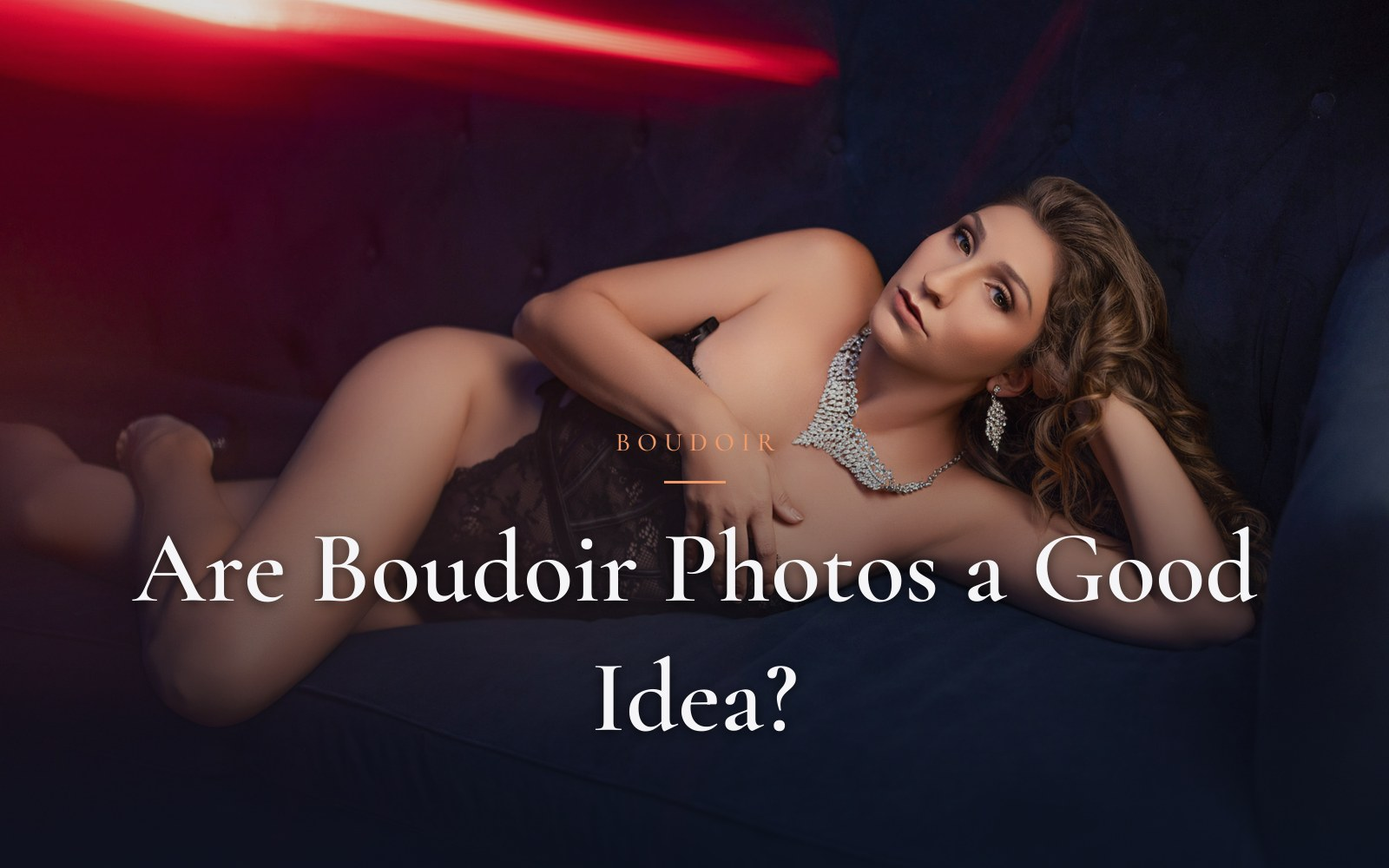
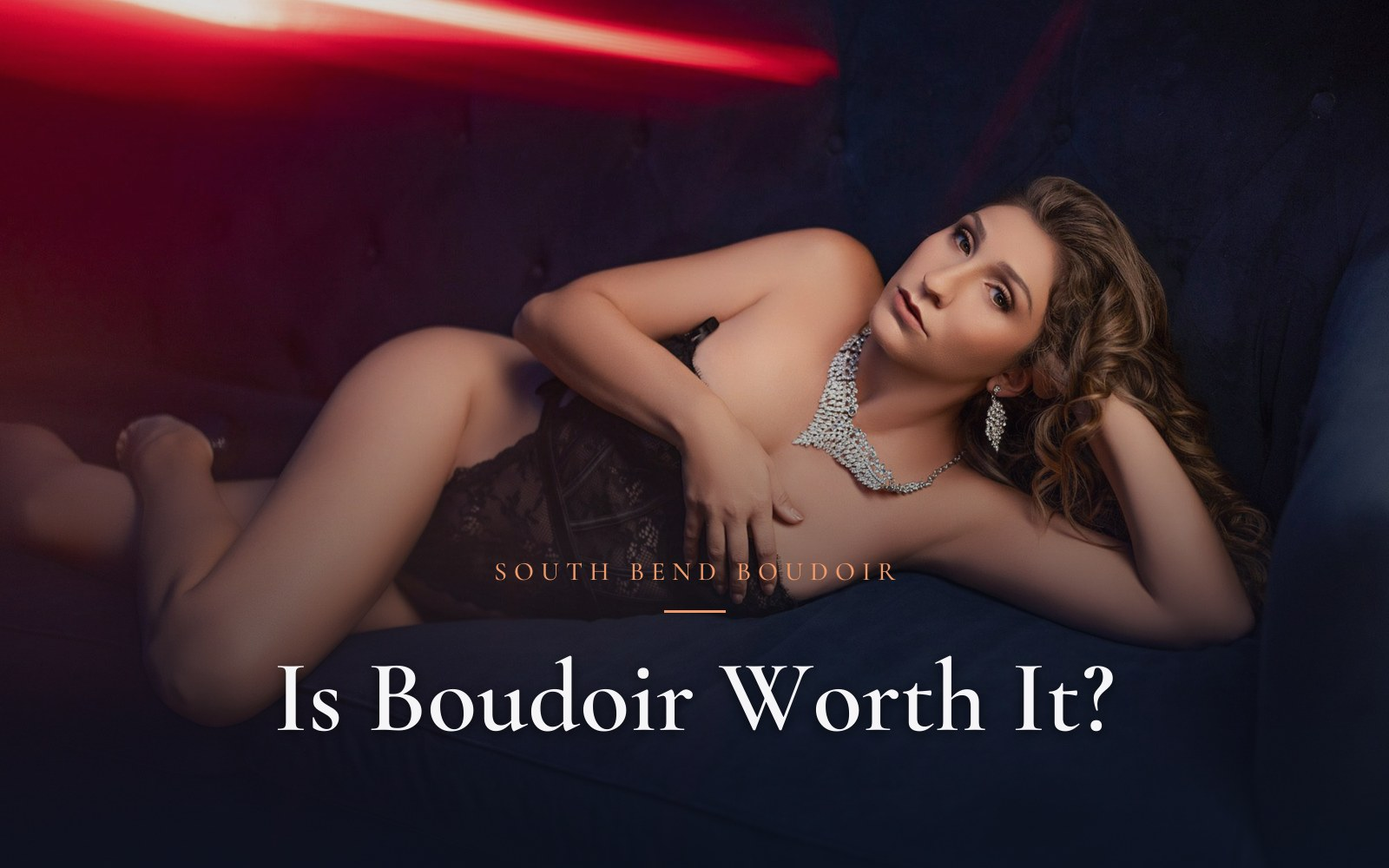
Update South Bend boudoir value guide

Changed region(s): [[0.0938, 0.589, 0.9062, 0.713], [0.1875, 0.744, 0.8125, 0.868], [0.4375, 0.496, 0.5625, 0.527]]

diff --git a/posts/are-boudoir-photos-a-good-idea/index.html b/posts/are-boudoir-photos-a-good-idea/index.html
@@ -3,15 +3,15 @@
 <head>
   <meta charset="UTF-8" />
   <meta name="viewport" content="width=device-width, initial-scale=1.0" />
-  <title>Are Boudoir Photos a Good Idea? An Honest Answer for Anyone on the Fence — Mark Andrew</title>
-  <meta name="description" content="Wondering if boudoir photos are a good idea? An honest answer from a South Bend boudoir photographer — who it&#x27;s really for, whether it&#x27;s worth it, and what to expect." />
+  <title>Is a Boudoir Session Worth It in South Bend, Indiana? — Mark Andrew</title>
+  <meta name="description" content="Is a boudoir session worth it in South Bend, Indiana? Mark Andrew explains the investment, experience, artwork, and when waiting may be wiser." />
   <link rel="canonical" href="https://blog.markandrewboudoir.com/posts/are-boudoir-photos-a-good-idea/" />
 
   <!-- Open Graph / Facebook / LinkedIn -->
   <meta property="og:type" content="article" />
   <meta property="og:url" content="https://blog.markandrewboudoir.com/posts/are-boudoir-photos-a-good-idea/" />
-  <meta property="og:title" content="Are Boudoir Photos a Good Idea? An Honest Answer for Anyone on the Fence — Mark Andrew" />
-  <meta property="og:description" content="Wondering if boudoir photos are a good idea? An honest answer from a South Bend boudoir photographer — who it&#x27;s really for, whether it&#x27;s worth it, and what to expect." />
+  <meta property="og:title" content="Is a Boudoir Session Worth It in South Bend, Indiana? — Mark Andrew" />
+  <meta property="og:description" content="Is a boudoir session worth it in South Bend, Indiana? Mark Andrew explains the investment, experience, artwork, and when waiting may be wiser." />
   <meta property="og:image" content="https://blog.markandrewboudoir.com/uploads/Use%20These%20Images/velvet-curtain-dramatic-lighting-standing-pose-boudoir-session-elkhart-in.jpg" />
   <meta property="og:image:width" content="1200" />
   <meta property="og:image:height" content="800" />
@@ -20,8 +20,8 @@
   <!-- Twitter Card -->
   <meta name="twitter:card" content="summary_large_image" />
   <meta name="twitter:url" content="https://blog.markandrewboudoir.com/posts/are-boudoir-photos-a-good-idea/" />
-  <meta name="twitter:title" content="Are Boudoir Photos a Good Idea? An Honest Answer for Anyone on the Fence — Mark Andrew" />
-  <meta name="twitter:description" content="Wondering if boudoir photos are a good idea? An honest answer from a South Bend boudoir photographer — who it&#x27;s really for, whether it&#x27;s worth it, and what to expect." />
+  <meta name="twitter:title" content="Is a Boudoir Session Worth It in South Bend, Indiana? — Mark Andrew" />
+  <meta name="twitter:description" content="Is a boudoir session worth it in South Bend, Indiana? Mark Andrew explains the investment, experience, artwork, and when waiting may be wiser." />
   <meta name="twitter:image" content="https://blog.markandrewboudoir.com/uploads/Use%20These%20Images/velvet-curtain-dramatic-lighting-standing-pose-boudoir-session-elkhart-in.jpg" />
 
   <link rel="preconnect" href="https://fonts.googleapis.com" />
@@ -50,8 +50,8 @@
 {
   "@context": "https://schema.org",
   "@type": "Article",
-  "headline": "Are Boudoir Photos a Good Idea? An Honest Answer for Anyone on the Fence",
-  "description": "Wondering if boudoir photos are a good idea? An honest answer from a South Bend boudoir photographer \u2014 who it's really for, whether it's worth it, and what to expect.",
+  "headline": "Is a Boudoir Session Worth It in South Bend, Indiana?",
+  "description": "Is a boudoir session worth it in South Bend, Indiana? Mark Andrew explains the investment, experience, artwork, and when waiting may be wiser.",
   "author": {
     "@type": "Person",
     "name": "Mark Andrew"
@@ -71,42 +71,42 @@
   "mainEntity": [
     {
       "@type": "Question",
-      "name": "Are boudoir photos worth it?",
+      "name": "Is a boudoir session worth it in South Bend, Indiana?",
       "acceptedAnswer": {
         "@type": "Answer",
-        "text": "If your goal is confidence and feeling good in your own skin, yes. A good session is built to do more than make pretty pictures \u2014 it's designed to change how you see yourself. Most women's only regret is not booking sooner."
+        "text": "It can be worth it when you value a personalized, guided experience and photographs or artwork made for you. It should also fit your budget, timing, boundaries, and reasons for booking. A consultation is the right place to evaluate all four."
       }
     },
     {
       "@type": "Question",
-      "name": "Who should not book a boudoir session?",
+      "name": "What should I compare when choosing a South Bend boudoir photographer?",
       "acceptedAnswer": {
         "@type": "Answer",
-        "text": "Anyone who isn't ready to see herself differently. The experience will change how you view yourself, so you have to be willing to let go of the old, unworthy version of you and step into a more confident one. If you're not ready for that yet, wait."
+        "text": "Compare consistent real-client work, trust, privacy, posing guidance, who is present, the schedule, what the initial payment covers, when images are selected, and the cost and quality of finished products or digital photographs."
       }
     },
     {
       "@type": "Question",
-      "name": "Are boudoir photos for me or for my partner?",
+      "name": "Do I have to know how to pose for a boudoir session?",
       "acceptedAnswer": {
         "@type": "Answer",
-        "text": "For you. Many women book thinking of it as a gift for a spouse, but the entire experience is designed around the client \u2014 your confidence and your transformation. A partner may enjoy the result, but it was never the point."
+        "text": "No. A specialist should direct your posture, hands, expression, angles, and movement throughout the session. Most clients are not models, so clear coaching is a core part of the service."
       }
     },
     {
       "@type": "Question",
-      "name": "Is boudoir photography worth the money?",
+      "name": "What happens after a boudoir session?",
       "acceptedAnswer": {
         "@type": "Answer",
-        "text": "It's a real investment, not a cheap one \u2014 but it's one of the few things a woman spends on purely for herself. Flexible payment plans, including Affirm, are available on anything you take home, so cost doesn't have to be the reason you keep waiting."
+        "text": "At Mark Andrew Boudoir, clients see their photographs at a same-day reveal and choose the images and products they want. Options may include digitals, albums, wall art, metal prints, and folio boxes."
       }
     },
     {
       "@type": "Question",
-      "name": "I'm nervous and on the fence \u2014 is that normal?",
+      "name": "When should I wait to book boudoir photography?",
       "acceptedAnswer": {
         "@type": "Answer",
-        "text": "Completely. Almost every client feels it. Being nervous doesn't mean it's the wrong choice \u2014 it usually means it matters. The fear fades fast once the session starts, and most women leave wishing they'd done it years ago."
+        "text": "Wait if the purchase would strain essential finances, someone else is pressuring you, life is unusually unstable, or you do not feel safe and comfortable with the photographer. Ordinary nerves are common, but serious pressure deserves attention."
       }
     }
   ]
@@ -115,7 +115,7 @@
 
   <style>
     *, *::before, *::after { box-sizing: border-box; margin: 0; padding: 0; }
-    html { scroll-behavior: smooth; }
+    html { scroll-behavior: smooth; overflow-x: hidden; }
     body {
       background: #0c1322;
       color: #eef0f5;
@@ -446,7 +446,7 @@
       .nav { padding: 14px 20px; }
       .nav-links { display: none; }
       .hero { padding: 120px 24px 40px; }
-      .hero h1 { font-size: 32px; }
+      .hero h1 { max-width: 100%; font-size: 30px; overflow-wrap: anywhere; text-wrap: balance; }
       .hero .eyebrow { font-size: 26px; }
       .direct-answer { margin: 0 24px 36px; padding: 22px 24px; }
       .content { padding: 0 24px 60px; }
@@ -482,115 +482,114 @@
       <span style="opacity:0.4;">·</span>
       <span>Boudoir</span>
     </nav>
-    <div class="eyebrow">an honest answer</div>
-    <h1>Are Boudoir Photos a Good Idea? <em>An Honest Answer.</em></h1>
-    <p class="subtitle">If you've talked yourself out of a boudoir session more than once, this is the honest conversation I'd have with you — who it's right for, who it isn't, whether it's worth it, and what happens when a woman who was sure it was a mistake finally sees herself.</p>
+    <div class="eyebrow">an honest South Bend answer</div>
+    <h1>Is a Boudoir Session Worth It <em>in South Bend, Indiana?</em></h1>
+    <p class="subtitle">An honest look at the investment, the experience, and the questions I want every Michiana client to ask before she books.</p>
   </header>
 
   <section class="direct-answer">
-    <p>Yes — if you want to feel more confident and finally celebrate your body, boudoir photos are one of the best ways to do it. A good session isn't really about the pictures; it's about <strong>falling back in love with yourself</strong>. The only women it's a bad idea for are the ones who aren't ready to see themselves differently — because they will.</p>
+    <p>For many South Bend and Michiana clients, a boudoir session is worth it when they want a carefully planned experience and photographs that feel personal—not simply time in front of a camera. It is a meaningful investment, and it should fit your budget, timing, boundaries, and reasons for booking. If those pieces do not line up, waiting is completely reasonable.</p>
   </section>
 
   <figure class="hero-image">
     <div class="frame">
-      <img src="/uploads/Use%20These%20Images/velvet-curtain-dramatic-lighting-standing-pose-boudoir-session-elkhart-in.jpg" alt="Woman standing in dramatic light against a velvet curtain during a boudoir session in Elkhart, IN" loading="lazy" />
+      <img src="/uploads/Use%20These%20Images/velvet-curtain-dramatic-lighting-standing-pose-boudoir-session-elkhart-in.jpg" alt="Woman posed in dramatic light against a velvet curtain during a Michiana boudoir session" loading="lazy" />
     </div>
-    <figcaption>The honest version of a conversation I have almost every week</figcaption>
+    <figcaption>Worth is personal, so the consultation should be honest before anything is booked</figcaption>
   </figure>
 
 
   <main class="content">
 
-    <h2>Are Boudoir Photos Actually a Good Idea?</h2>
+    <h2>Is a boudoir session worth it in South Bend, Indiana?</h2>
     <div class="section-answer">
-      <p>If you want more confidence and you want to celebrate your body and your sexuality, then yes — it's one of the best ways to do it. You're working with someone trained to find your best angles, light you, pose you, and read your expressions, and who's experienced at giving your self-esteem a real boost. The point was never the photos. It's <strong>falling in love with yourself</strong>.</p>
+      <p>A boudoir session can be worth it when the experience, the photographs, and the finished artwork matter to you personally. In my South Bend studio, I plan the session around your style and guide you through unfamiliar parts of the process. I will never tell someone to ignore serious budget, timing, or comfort concerns just to book.</p>
     </div>
-      <p>When a woman tells me she's on the fence about whether this is even a good idea, the first thing I say is: I get it. For most women this sits completely outside the comfort zone — it's not an everyday thing, and a lot of women have been shamed their whole lives for their body, their sexuality, their confidence. Booking something that celebrates all of those things at once can feel like going against the grain. So the question — <em>is this even a good idea?</em> — is valid, and it makes total sense.</p>
-      <p>But here's my honest opinion. If you want more confidence, and you want to celebrate your figure instead of hiding it, this is the best way I know to do it. When you work with a photographer who does this every single day, you're not just getting someone who knows the angles, the lighting, and the posing — you're getting someone who's experienced at giving your self-esteem a real boost. Yes, the pictures come out beautiful. But the actual purpose is for you to fall in love with yourself and embrace the things you've spent a lifetime being told to hide.</p>
-      
+      <p>I have photographed women for nearly ten years, and people come in for very different reasons. Some are celebrating a birthday, a career milestone, a divorce, a change in their body, or simply the decision to do something for themselves. The common thread is not one promised transformation. It is the desire to document this point in life with intention.</p>
+      <p>That is why I think “worth it” has to be personal. A beautiful session can be exciting, meaningful, and a genuine confidence boost, but it is still a real purchase. The right answer depends on why you want it, whether you trust the photographer, and whether the investment makes sense in your life right now.</p>
+
 
     <figure class="framed-image">
       <div class="frame">
-        <img src="/uploads/fur-coat-city-skyline-turning-pose-boudoir-session-mishawaka-in.jpg" alt="Confident woman in a fur coat turning toward a city skyline during a boudoir session in Mishawaka, IN" loading="lazy" />
+        <img src="/uploads/fur-coat-city-skyline-turning-pose-boudoir-session-mishawaka-in.jpg" alt="Woman in a fur coat turning toward a city skyline during a Michiana boudoir session" loading="lazy" />
       </div>
-      <figcaption>This was never about the photos — it&#x27;s about who you become</figcaption>
+      <figcaption>The right experience begins with your reason for booking</figcaption>
     </figure>
 
-    <h2>Who Is Boudoir Photography NOT a Good Idea For?</h2>
+    <h2>What am I paying for beyond time in front of the camera?</h2>
     <div class="section-answer">
-      <p>Boudoir is a bad idea for exactly one kind of person: someone who isn't ready to see herself differently — because she will. You have to be willing to let go of the old you, the version who doesn't feel worthy, beautiful, or like the main character of her own story. If you're not ready to let her go yet, don't book yet. This experience is built to change that, and it works.</p>
+      <p>You are paying for planning, specialized posing and lighting, wardrobe and set guidance, privacy, and a photographer who knows how to make many different people look natural on camera. My process begins with a video consultation, continues through a session designed around you, and ends with a same-day reveal where you choose the photographs and artwork you actually want.</p>
     </div>
-      <p>I'll be honest, because most photographers won't. You should not book a boudoir shoot if you aren't ready to see yourself differently — because you will. This experience is designed to do exactly that.</p>
-      <p>That means letting go of the old you. The old you is the one who doesn't view herself as worthy, doesn't view herself as beautiful, doesn't view herself as sexy or sensual, and doesn't see herself as the main character in her own story. If you're not ready to release that version of yourself and step into a woman who feels worthy of being celebrated, doted on, and photographed like she matters — wait. That's exactly what this is for. You have to be willing to let all of it go so you can step into your new presence.</p>
-      
+      <p>The camera is only one part of the work. We talk through your vision, wardrobe, color, mood, and comfort before the session. During the shoot, I direct the angles, expressions, hands, posture, lighting, and small adjustments most clients would never be expected to know on their own.</p>
+      <p>Optional <a href="/posts/boudoir-hair-makeup-south-bend/">professional hair and makeup with Aletheia</a> can be part of the preparation. Afterward, you see your photographs at the same-day reveal and decide what you want to purchase. Albums, wall art, metal prints, folio boxes, and digital images are separate choices, so ask for current pricing and exactly what is included before booking.</p>
 
-    <h2>Who Are Boudoir Photos Really For — You or Your Partner?</h2>
+
+    <h2>Which parts of a boudoir experience matter most afterward?</h2>
     <div class="section-answer">
-      <p>They're for you. My studio has always been built on one idea: helping you fall in love with yourself. Most women inquire saying they want a gift for their husband — that's just the easy way in — but I've designed the entire experience to be the opposite. Your partner might enjoy the perks. These photos are for you, and only you.</p>
+      <p>Clients value different parts: finally making the call, having help with wardrobe, being directed instead of left to pose themselves, seeing the photographs at the reveal, or owning an album or wall portrait. The best reason to book is the one that matters to you—not a photographer's promise that every person will leave feeling exactly the same way.</p>
     </div>
-      <p>The majority of women who reach out tell me they want a gift for their husband or their spouse. I understand it — that's the easy way in, because that's what most people assume boudoir is. But I've built my studio to be completely the opposite of that.</p>
-      <p>Nowhere in “helping my clients fall in love with themselves” does it say anything about helping a spouse see them a new way or find a new spark. It has always been for my client, and my client only. The whole purpose is to take someone who doesn't feel worthy, loved, beautiful, powerful, or confident, and transform her into a woman who does. These photos are about who you want to become, how you want to be remembered, and how you want to be seen. Your partner may get the perks of that — but make no mistake, this is for you.</p>
-      
+      <p>For one person, the biggest moment is choosing to step outside her comfort zone. For another, it is getting ready with a professional artist, seeing herself in carefully designed light, or recognizing the person on the screen at the reveal. Some clients care most about leaving with something tangible that will last.</p>
+      <p>My favorite finished piece is a handcrafted album, and many clients also choose wall art, metal, a folio box, or digital photographs. Those products are not an afterthought. They are part of the value decision because they determine what you will actually own and how you will experience the photographs after the day is over.</p>
+
 
     <div class="two-col">
       <figure>
         <div class="frame">
-          <img src="/uploads/silver-hair-mature-pearl-necklace-velvet-sofa-blue-light-boudoir-photographer-granger-in.jpg" alt="Silver-haired woman in pearls on a velvet sofa in blue light, boudoir portrait in Granger, IN" loading="lazy" />
+          <img src="/uploads/silver-hair-mature-pearl-necklace-velvet-sofa-blue-light-boudoir-photographer-granger-in.jpg" alt="Silver-haired woman in pearls on a velvet sofa during a Granger-area boudoir portrait session" loading="lazy" />
         </div>
       </figure>
       <figure>
         <div class="frame">
-          <img src="/uploads/red-lace-lingerie-kneeling-reflective-floor-golden-orange-boudoir-session-south-bend-in.jpg" alt="Woman in red lace lingerie kneeling on a reflective floor in golden light, boudoir session in South Bend, IN" loading="lazy" />
+          <img src="/uploads/red-lace-lingerie-kneeling-reflective-floor-golden-orange-boudoir-session-south-bend-in.jpg" alt="Woman in red lace posed on a reflective floor during a South Bend boudoir session" loading="lazy" />
         </div>
       </figure>
     </div>
-    <p style="text-align: center; font-family: 'Jost', sans-serif; font-size: 11px; letter-spacing: 0.2em; text-transform: uppercase; color: rgba(238,240,245,0.5); margin: -40px 0 56px;">Every age, every story — the experience is built around you</p>
+    <p style="text-align: center; font-family: 'Jost', sans-serif; font-size: 11px; letter-spacing: 0.2em; text-transform: uppercase; color: rgba(238,240,245,0.5); margin: -40px 0 56px;">Real clients, different styles, and a process built around the person</p>
 
-    <h2>Is a Boudoir Session Worth the Money?</h2>
+    <h2>How should I compare a full boudoir experience with a cheaper session?</h2>
     <div class="section-answer">
-      <p>Honestly, it's not cheap — it's a lavish expense. But you've spent years pouring your time, energy, and money into everyone else: your kids, your career, your students. You can't fill someone else's cup when yours is empty. You deserve expensive things because you're worth them — and if money's tight, we offer flexible payment plans on anything you take home.</p>
+      <p>Compare more than the lowest price. Look at whether the portfolio shows consistent real client work, whether you trust the photographer, how privacy and image sharing are handled, how much posing help you receive, what the schedule includes, and what you can buy afterward. A lower session price may represent a very different service and final result.</p>
     </div>
-      <p>This comes up constantly, because so many of my clients have poured their effort, energy, money, and time into other people — their kids, their careers, their businesses, their students. Somewhere along the line they decided that was all they were good for, and that their time and money should be spent on everyone but themselves. It's selfless and it's beautiful — but it's not right. You cannot fill somebody else's cup when your own is empty.</p>
-      <p>So no, it's not cheap. It is absolutely a lavish expense. But I'm a believer that my clients deserve that. It's not cheap — and neither are my clients. You should want expensive things, because you deserve them. And if money is a real concern, we always offer flexible payment plans, including Affirm, on anything you take home, big or small. I want you to walk out with the images you fell in love with, and I want to make that easy.</p>
-      
+      <p>Ask yourself whether the photographer's real work matches the style you want. Ask who will be present, how boundaries are handled, whether you will receive direction, when you will see the photographs, and whether products or digitals cost extra. A fancy camera is not the same thing as years spent learning how to photograph people who are not professional models.</p>
+      <p>Everything in my portfolio is real photography of real clients who gave permission for their images to be shared. I use lighting, wardrobe, sets, posing, and expression coaching in the studio, with ordinary retouching for temporary things such as a bruise or scratch. I do not use AI-generated people as proof of work I cannot reproduce.</p>
 
-    <h2>What Happens When a Woman Who&#x27;s Terrified Actually Goes Through With It?</h2>
+
+    <h2>When might a boudoir session not be worth it right now?</h2>
     <div class="section-answer">
-      <p>Recently a client called me on her way to the studio, running late and ready to turn around. She was leaving an abusive marriage and feeling completely down on herself. She came anyway. When she saw her gallery at the same-day reveal, she broke down crying — she could not believe the woman in front of her was that worthy, powerful, and stunning.</p>
+      <p>It may not be the right time if paying for it would strain essential finances, someone else is pressuring you, life is unusually unstable, or you do not feel safe and comfortable with the photographer. Nervousness is normal; serious financial or personal pressure is different. A good consultation should help you tell the difference without shaming you into a decision.</p>
     </div>
-      <p>Not long ago I had a client call me on the way to her shoot to say she was running late — and that she thought she was just going to turn around and go home. She didn't think she should do it. There was a lot going on in her life: she was coming out of a marriage that had been abusive, she was in a new relationship that wasn't the best, and she was feeling really, really down on herself.</p>
-      <p>When she first booked, her whole reason for doing this was to finally see herself in a new, beautiful way. But sometimes that's the hardest thing in the world. Getting out of the rut, out of the depression, out of seeing yourself as unworthy can feel impossible. So walking into an experience that pushes against all of that is terrifying — you don't know how you're going to see yourself, or whether you'll even like the new person. But that's the entire point: to show you that you are worthy, that you do deserve this, that this is all about you.</p>
-      <p>She came. And when she finally saw her pictures at the reveal, she cried. She was brought to tears, because she could not believe the person in front of her was all of those things — worthy, powerful, confident, sexy, stunning. <em>Worthy.</em> That's the moment this whole thing exists for.</p>
-      
+      <p>Boudoir can be for adults of different ages, genders, body types, and backgrounds, but that does not mean every moment is the right moment. If your finances truly are not in a good place, a relationship is creating serious pressure, or the photographer does not feel trustworthy, pause.</p>
+      <p>Being outside your comfort zone is not automatically a warning sign. Many clients are nervous and still feel glad they did it. The distinction is whether you are choosing the session for yourself and feel supported in the process, or whether you are overriding a real concern because someone is pushing you to book.</p>
+
+
+    <h2>What should I ask during a Michiana boudoir consultation?</h2>
+    <div class="section-answer">
+      <p>Ask who will be present, how your images are protected and shared, how posing works, whether hair and makeup is optional, what the retainer covers, when products are selected, and what payment choices exist. Also ask whether the portfolio represents real clients and whether the photographer's process can reliably create the style you are being shown.</p>
+    </div>
+      <p>Trust is the first thing I want a client to evaluate. You should trust the photographer to be professional, deliver what was promised, respect your boundaries, and create work consistent with the portfolio. My consultation is a video call because meeting face to face and talking through the vision helps both of us decide whether the fit is right.</p>
+      <p>Pricing should be transparent enough for you to understand the stages: the amount required to reserve and plan the session, any optional hair and makeup, and the images or products selected later. My <a href="/boudoir-photography-cost-south-bend/">South Bend boudoir cost guide</a> explains that structure in more detail. Payment plans, including Affirm, may be available for purchases, but that should support a sound decision—not pressure you into spending beyond your comfort.</p>
+
 
     <figure class="framed-image">
       <div class="frame">
-        <img src="/uploads/Use%20These%20Images/bronze-halter-bodysuit-gold-necklace-velvet-chaise-boudoir-portraits-mishawaka-in.jpg" alt="Woman in a bronze halter bodysuit and gold necklace reclining on a velvet chaise, luxury boudoir portrait in Mishawaka, IN" loading="lazy" />
+        <img src="/uploads/Use%20These%20Images/bronze-halter-bodysuit-gold-necklace-velvet-chaise-boudoir-portraits-mishawaka-in.jpg" alt="Woman in a bronze halter bodysuit reclining on a velvet chaise during a Michiana boudoir portrait session" loading="lazy" />
       </div>
-      <figcaption>Worthy of being celebrated — exactly as you are</figcaption>
+      <figcaption>Choose photographs and artwork after seeing the finished gallery</figcaption>
     </figure>
 
-    <h2>What Do the Women Who Book Boudoir Have in Common?</h2>
+    <h2>What can I own after the same-day reveal?</h2>
     <div class="section-answer">
-      <p>They're tired. Tired of living in the past, tired of carrying the old version of themselves. The women who finally decide it's a good idea are ready to move into a new chapter — to feel powerful, in charge, and worthy, like the woman they'd put on the cover of a magazine. Every one of them is simply ready to move forward.</p>
+      <p>At the same-day reveal, you see the finished photographs and choose what you want to purchase. Options can include digital images, handcrafted albums, wall art, metal prints, and folio boxes. The value is not simply having files; it is choosing the photographs and format you will genuinely enjoy. Confirm current pricing and delivery details during your consultation.</p>
     </div>
-      <p>I have women drive in from all over — South Bend, Mishawaka, Granger, Elkhart, Goshen, and across the border from Niles. And the thing they have most in common is simple: they're tired. They're ready to move on. They're ready to leave the old version of themselves behind and step into a new chapter.</p>
-      <p>That new chapter is a woman who is powerful, who knows exactly who she is, and who knows she's worthy. She understands that people are lucky to be in the same room as her — that the value she brings isn't only what she can give other people, but the energy she pours out just by being present. The women who finally decide this is a good idea are done living in the past. They want to feel powerful, in charge, and worthy, like the woman they'd see on the cover of a magazine. That's what they're really after.</p>
-      
+      <p>I love creating finished art. A wall portrait lets you see the work in your home, while an album gives you a private, tactile way to revisit the photographs. Our handcrafted albums use thick pages and detailed printing designed to last.</p>
+      <p>You do not have to know which product you want before the session. The reveal lets you respond to your actual photographs instead of buying blindly. What matters is understanding that the session and the later image or artwork purchase are distinct decisions, so you can evaluate the complete investment honestly.</p>
 
-    <h2>I&#x27;ve Wanted to Do This for Years — Should I Finally Book?</h2>
-    <div class="section-answer">
-      <p>Yes. Time waits for no one. If you book tomorrow, a year from now you'll wish you'd done it sooner — and if you wait ten years, you'll only wish you hadn't waited twenty. The one thing standing between you and these photos is you picking up the phone. You deserve to feel worthy, powerful, and beautiful.</p>
-    </div>
-      <p>Time waits for nobody. If you booked a shoot tomorrow, a year from now you'd tell me you wish you'd done it years ago. If you wait ten more years, you'll just tell me you wish you'd done it twenty years ago. It never gets easier to start — it only gets later.</p>
-      <p>The only thing stopping you is you picking up the phone and calling me. You deserve lavish things. You deserve to feel worthy, powerful, beautiful, sexy, and sensual. It is time to put the old version of you behind you and become the woman you want to be remembered as.</p>
-      
 
 
     <div class="frame-box">
-      <span class="eyebrow">the studio is open</span>
-      <h3>The only thing standing in your way <em>is you.</em></h3>
-      <p>If you've wanted this for years and kept talking yourself out of it, let's just talk — no pressure, no commitment. We'll cover wardrobe, dates, pricing, and exactly what your day would look like. You deserve to feel worthy, powerful, and beautiful. It's time.</p>
+      <span class="eyebrow">start with a conversation</span>
+      <h3>Decide whether this is right for <em>you.</em></h3>
+      <p>A consultation is where we talk about your reasons, boundaries, style, investment, and questions before you make a decision. There is no need to pretend you are not nervous or to know exactly what you want before we talk.</p>
     </div>
 
     <section id="book" class="booking-section">

diff --git a/blog/index.html b/blog/index.html
@@ -488,8 +488,8 @@
       },
       {
         slug: 'are-boudoir-photos-a-good-idea',
-        title: 'Are Boudoir Photos a Good Idea? An Honest Answer for Anyone on the Fence',
-        excerpt: 'On the fence about booking? The honest version — who boudoir is really for, who should wait, whether it\'s worth the money, and what happens at the reveal.',
+        title: 'Is a Boudoir Session Worth It in South Bend, Indiana?',
+        excerpt: 'A candid look at what you are paying for, what clients value, and when now may not be the right time.',
         category: 'boudoir',
         categoryLabel: 'Boudoir',
         date: 'Jun 15, 2026',
